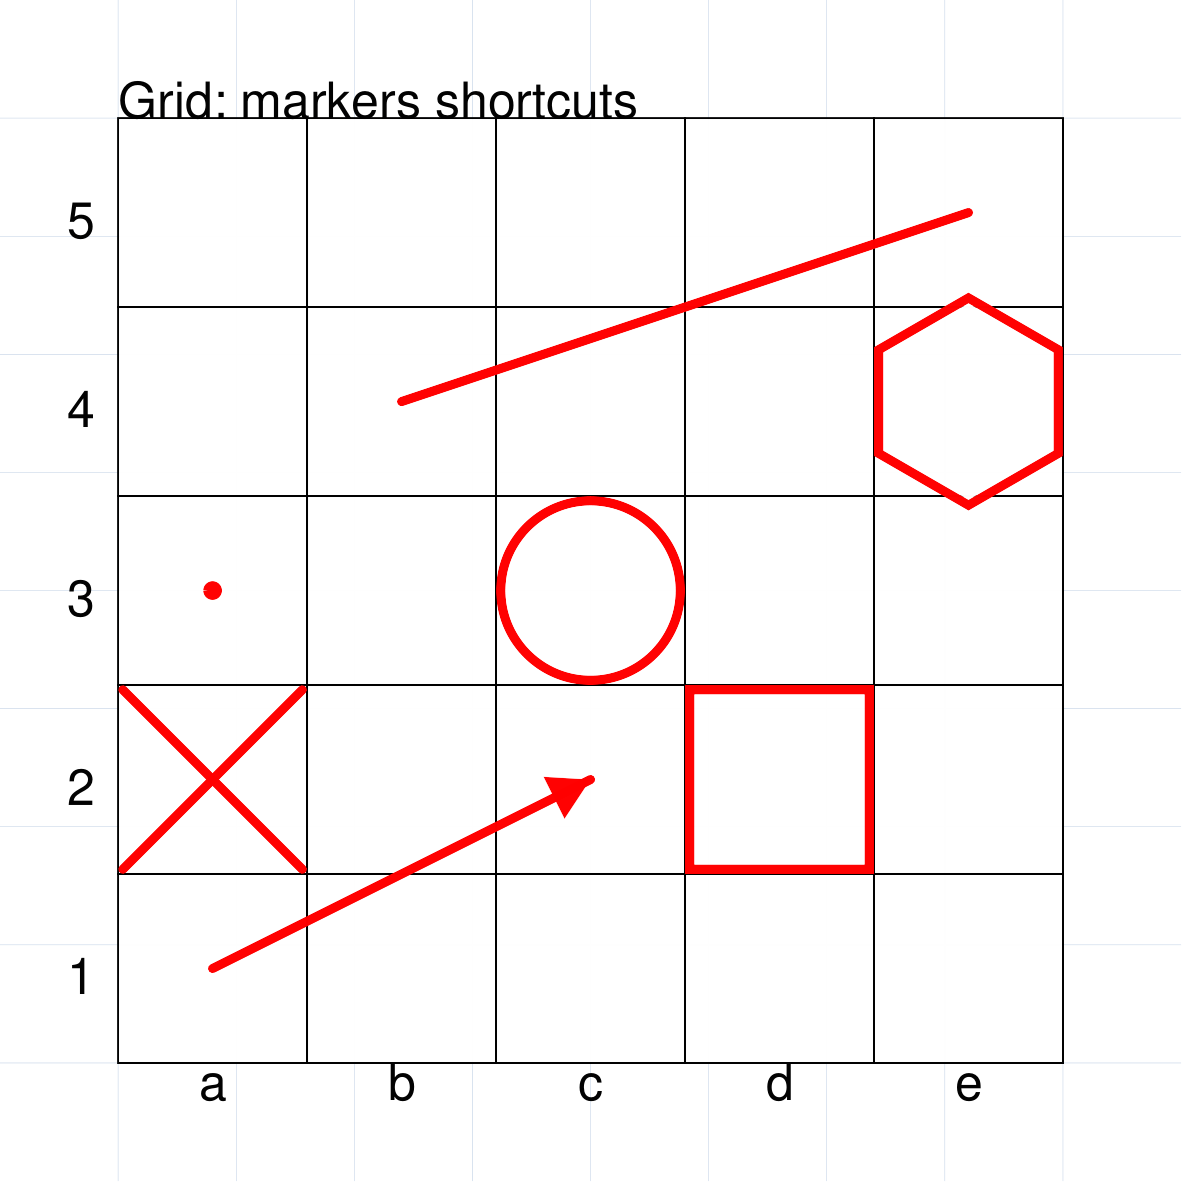
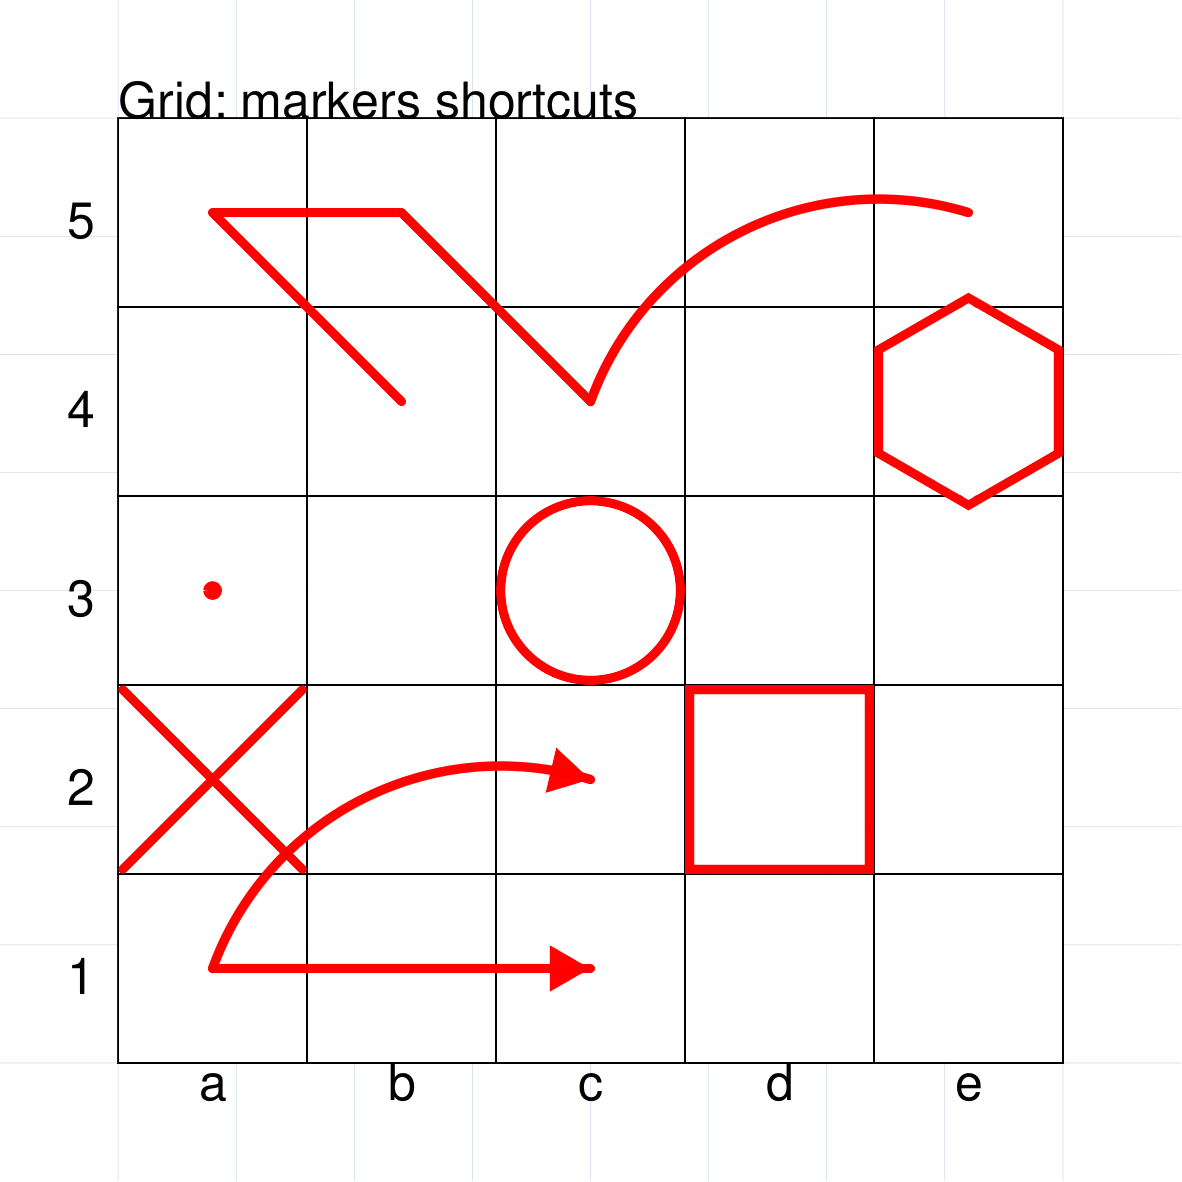
Add curves to Abstract markers

diff --git a/protograf/objects/abstracts.py b/protograf/objects/abstracts.py
@@ -7,7 +7,7 @@ Notes:
 """
 
 # lib
-# import os
+import math
 import re
 
 # third party
@@ -1521,7 +1521,7 @@ class AbstractStateObject(BaseShape):
             links = [link.centre for link in grid_refs]
 
         match mark.lower():
-            case "a":  # arrow
+            case "a" | "ac":  # arrow / curved
                 check_grid(grid_refs, "arrow (a)", 2)
                 if links:
                     akwargs = {"links": links, "stroke_ends": "rounded"}
@@ -1535,6 +1535,12 @@ class AbstractStateObject(BaseShape):
                         "arrow": True,
                         "stroke_ends": "rounded",
                     }
+                    if mark.lower() == "ac":
+                        curve_height = (
+                            math.dist((cntr0.x, cntr0.y), (cntr1.x, cntr1.y)) * 0.2
+                        )
+                        akwargs["curve"] = curve_height
+
                 kwargs = {**def_kwargs, **usr_kwargs, **akwargs}
                 Line(**kwargs)
             case "c":  # circle
@@ -1576,7 +1582,7 @@ class AbstractStateObject(BaseShape):
                 }
                 kwargs = {**def_kwargs, **usr_kwargs, **skwargs}
                 Square(**kwargs)
-            case "l":  # line
+            case "l" | "lc":  # line / curve
                 check_grid(grid_refs, "line (l)", 2)
                 if links:
                     lkwargs = {"links": links, "stroke_ends": "rounded"}
@@ -1589,6 +1595,12 @@ class AbstractStateObject(BaseShape):
                         "y1": cntr1.y,
                         "stroke_ends": "rounded",
                     }
+                    if mark.lower() == "lc":
+                        curve_height = (
+                            math.dist((cntr0.x, cntr0.y), (cntr1.x, cntr1.y)) * 0.2
+                        )
+                        lkwargs["curve"] = curve_height
+
                 kwargs = {**def_kwargs, **usr_kwargs, **lkwargs}
                 Line(**kwargs)
             case "x":  # cross "X"
@@ -1637,7 +1649,7 @@ class AbstractStateObject(BaseShape):
 
     def draw_markers(self):
         """Draw marker elements on the board."""
-        allowed_marks = ["a", "c", "d", "h", "x", "s", "l"]
+        allowed_marks = ["a", "ac", "c", "d", "h", "x", "s", "l", "lc"]
         for mark in self.markers:
             if isinstance(mark, str):
                 marks = tools.sequence_split(mark, sep=" ", to_int=False, unique=False)
@@ -1650,7 +1662,7 @@ class AbstractStateObject(BaseShape):
                     )
                 if len(marks) < 2:
                     feedback(
-                        'The AbstractGame "markers" shortcut must contain a letter,'
+                        'The AbstractGame "markers" shortcut must contain a key,'
                         f' followed by one or more grid references, not "{mark}".',
                         True,
                         True,

diff --git a/examples/objects/abstracts.py b/examples/objects/abstracts.py
@@ -486,9 +486,11 @@ aml = AbstractGame(default=thick,
 AbstractState(
     board=aml,
     markers=[
-        'a a1 c2',
+        'a a1 c1',
+        'ac a1 c2',
         'd a3',
-        'l b4 c5 c4 e5',
+        'l b4 b3 c5 c4',
+        'lc c4 e5',
         'c c3',
         'h e4',
         's d2',
@@ -510,9 +512,11 @@ AbstractState(
     markers_stroke="red",
     markers_fraction=0.05,
     markers=[
-        'a a1 c2',
+        'a a1 c1',
+        'ac a1 c2',
         'd a3',
-        'l b4 e5',
+        'l b4 a5 b5 c4',
+        'lc c4 e5',
         'c c3',
         'h e4',
         's d2',

diff --git a/docs/source/objects/abstracts.rst b/docs/source/objects/abstracts.rst
@@ -1142,17 +1142,19 @@ The "shortcut" approach provides a limited set of shapes, and restricts their
 position to align with the cell centres; all shapes (except for the dot) are
 sized to just fit inside the cell.
 
-The shortcuts, referenced by a single letter are:
+The shortcuts, prefixed by one or two letters are:
 
 - ``a``: draw an **arrow** between two cells
+- ``ac``: draw an **arrow**, with a curve, between two cells
 - ``l``: draw a **line** between two cells
+- ``lc``: draw a **line**, with a curve, between two cells
 - ``c``: draw a **circle** inside a cell
 - ``d``: draw a **dot** inside a cell
 - ``s``: draw a **square** inside a cell
 - ``h``: draw a **hexagon** inside a cell
 - ``x``: draw an **X** inside a cell (between diagonally opposite vertices)
 
-Along with this letter, there also needs to be the reference for a cell or,
+Along with this prefix, there also needs to be the reference for a cell or,
 in the case of line or arrow, a reference for a second cell.  These appear
 together in a string, and a list of these strings is then assigned to the
 *markers* property and drawn in that order.
@@ -1184,9 +1186,11 @@ same list.
         AbstractState(
             board=aml,
             markers=[
-                'a a1 c2',
+                'a a1 c1',
+                'ac a1 c2',
                 'd a3',
-                'l b4 c5 c4 e5',
+                'l b4 b3 c5 c4',
+                'lc c4 e5',
                 'c c3',
                 'h e4',
                 's d2',
@@ -1226,9 +1230,11 @@ same list.
             markers_stroke="red",
             markers_fraction=0.05,
             markers=[
-                'a a1 c2',
+                'a a1 c1',
+                'ac a1 c2',
                 'd a3',
-                'l b4 e5',
+                'l b4 a5 b5 c4',
+                'lc c4 e5',
                 'c c3',
                 'h e4',
                 's d2',
